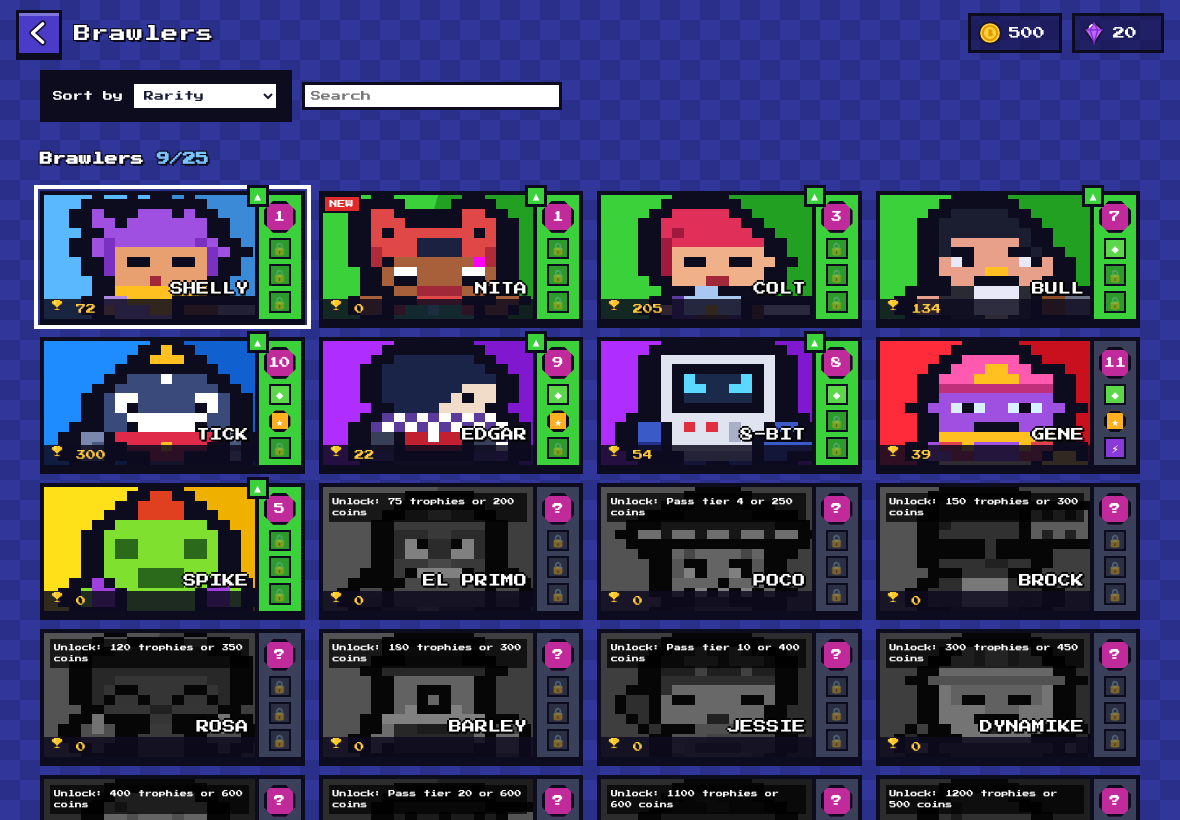
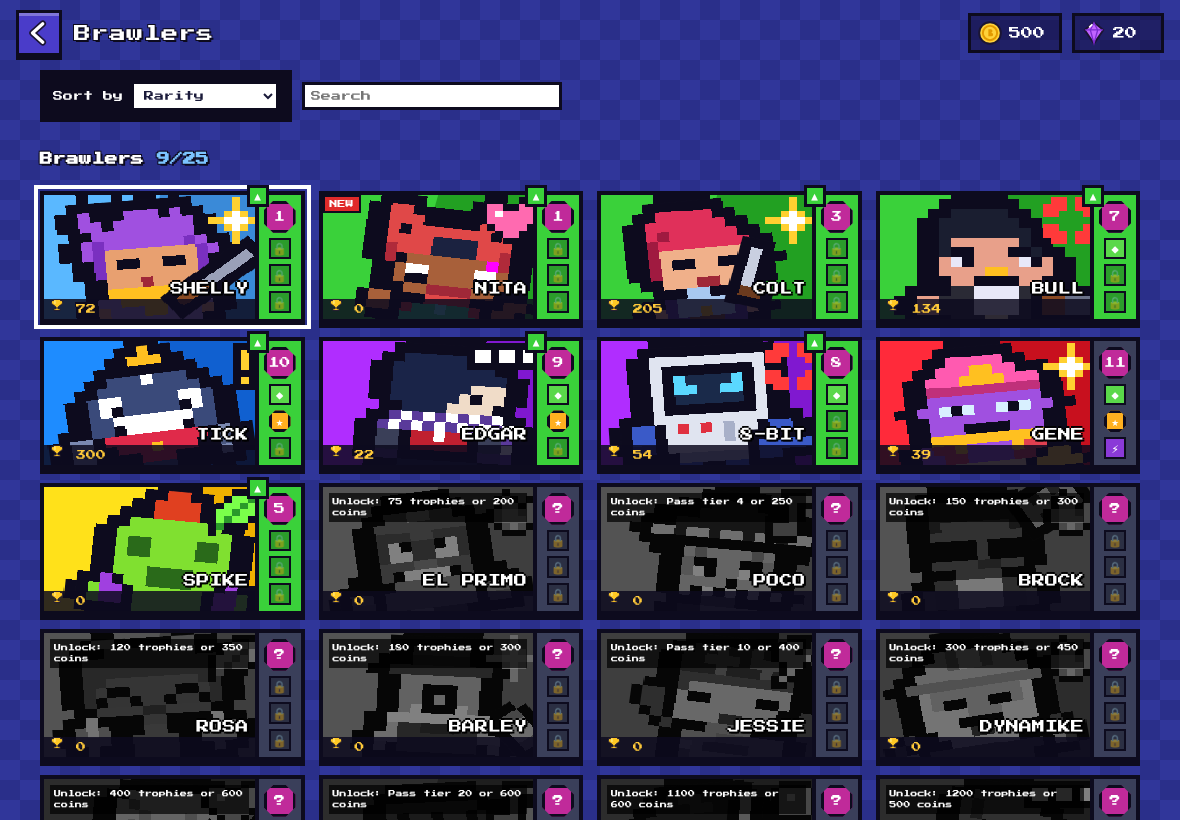
Personality poses on brawler profile pictures
Claude-Session: https://claude.ai/code/session_01FdRq2KxaynozDRfyymzMuF

diff --git a/Brawl8Bit.html b/Brawl8Bit.html
@@ -3767,6 +3767,45 @@ function drawDesktopHud(c) {
 }
 
 // ---------------- menu portraits ----------------
+// Personality poses for profile pictures: body lean, weapon angle and a little pixel emote.
+const EMOTES = {
+  heart: ['.kk..kk.', 'kppkkppk', 'kpwppppk', 'kppppppk', '.kppppk.', '..kppk..', '...kk...'],
+  anger: ['.rr.rr.', 'rrr.rrr', 'rr...rr', '.......', 'rr...rr', 'rrr.rrr', '.rr.rr.'],
+  note: ['..kkkk.', '..kbbbk', '..kbkkk', '..kbk..', 'kkkbk..', 'kbbbk..', 'kbbbk..', 'kkkk...'],
+  sparkle: ['...y...', '...y...', '..yWy..', 'yyWWWyy', '..yWy..', '...y...', '...y...'],
+  drop: ['..k...', '.kgk..', 'kgggk.', 'kgWgk.', 'kgggk.', '.kkk..'],
+  dots: ['kkkkkkkkkk', 'kWWkWWkWWk', 'kWWkWWkWWk', 'kkkkkkkkkk'],
+  bang: ['kkk', 'kyk', 'kyk', 'kyk', 'kkk', 'kyk', 'kkk'],
+  leaf: ['...kkk.', '..kggLk', '.kggLgk', 'kggLggk', 'kgLggk.', 'kLkkk..', 'k......'],
+  bolt: ['..kkkk', '.kyyk.', 'kyyk..', 'kyyyyk', '.kyyk.', '.kyk..', 'kyk...', 'kk....'],
+  bubble: ['.kkkk.', 'kppppk', 'kpWppk', 'kppppk', 'kppppk', '.kkkk.'],
+  bat: ['k.......k', 'kk.kkk.kk', 'kvkvvvkvk', 'kvvvrvvvk', '.kvkvkvk.', '..k.k.k..'],
+  fire: ['..k....', '.kok.k.', '.kookok', 'koyyook', 'koyyyok', '.koyok.', '..kkk..'],
+};
+const EMOTE_PAL = { k: '#0d0b1e', r: '#ff3a3a', p: '#ff6ab0', w: '#ffffff', W: '#ffffff', y: '#ffd030', b: '#3a8ad8', g: '#7aff4a', L: '#2a9a2a', o: '#ff7a1a', v: '#7a3ad8' };
+const POSES = {
+  shelly: { rot: -5, wrot: -35, em: 'sparkle' }, nita: { rot: 7, em: 'heart' }, colt: { rot: -6, wrot: -70, em: 'sparkle' }, bull: { rot: 0, em: 'anger' },
+  primo: { rot: -8, em: 'fire' }, poco: { rot: 6, em: 'note' }, brock: { rot: -4, wrot: -30, em: 'fire' }, jessie: { rot: 8, em: 'bolt' },
+  dynamike: { rot: -10, em: 'fire' }, spike: { rot: 6, em: 'leaf' }, rosa: { rot: -4, em: 'leaf' }, piper: { rot: 5, wrot: -60, em: 'heart' },
+  frank: { rot: -3, em: 'note' }, mortis: { rot: -10, wrot: 30, em: 'bat' }, leon: { rot: 6, flip: true, em: 'dots' }, crow: { rot: -6, em: 'drop' },
+  edgar: { rot: 4, em: 'dots' }, bibi: { rot: -6, wrot: -80, em: 'bubble' }, max: { rot: 12, em: 'bolt' }, tick: { rot: -8, em: 'bang' },
+  barley: { rot: 3, wrot: -40, em: 'sparkle' }, sprout: { rot: 6, em: 'leaf' }, eightbit: { rot: -4, em: 'anger' }, emz: { rot: 8, wrot: -45, em: 'dots' }, gene: { rot: -6, em: 'sparkle' },
+};
+const EMC = {};
+function emoteCanvas(n) { return EMC[n] || (EMC[n] = compileRows(EMOTES[n], EMOTE_PAL)); }
+function drawPosed(c, id, skin, px, py, sc, flip) {
+  const S_ = getSpr(id, skin), P = POSES[id] || {}, fl = !!(flip ^ !!P.flip), W_ = S_.w * sc, H_ = S_.h * sc;
+  c.save(); c.translate(px + W_ / 2, py + H_); c.rotate((P.rot || 0) * Math.PI / 180 * (fl ? -1 : 1)); c.translate(-W_ / 2, -H_);
+  const k = silhouette(id, INK)[fl ? 'f' : 'n']; for (const [dx, dy] of [[-1, 0], [1, 0], [0, -1], [0, 1]]) c.drawImage(k, dx * sc, dy * sc, W_, H_);
+  c.drawImage((fl ? S_.f : S_.n)[0], 0, 0, W_, H_);
+  if (S_.weapon) {
+    const W = S_.weapon, gx = fl ? (S_.w - W.ox) * sc : W.ox * sc, gy = (W.oy + 1) * sc;
+    c.save(); c.translate(gx, gy); c.rotate((P.wrot || 0) * Math.PI / 180 * (fl ? -1 : 1));
+    c.drawImage(fl ? W.f : W.n, fl ? -W.w * sc : 0, -sc, W.w * sc, W.n.height * sc); c.restore();
+  }
+  c.restore();
+  if (P.em) { const e = emoteCanvas(P.em), es = Math.max(1, Math.round(sc * 0.7)); c.drawImage(e, fl ? px - e.width * es * 0.2 : px + W_ - e.width * es * 0.8, Math.max(2, py - es * 2), e.width * es, e.height * es); }
+}
 function drawPortrait(cv, id, opts = {}) {
   const c = cv.getContext('2d'), w = cv.width, h = cv.height, d = BR[id];
   c.setTransform(1, 0, 0, 1, 0, 0); c.imageSmoothingEnabled = false;
@@ -3778,9 +3817,7 @@ function drawPortrait(cv, id, opts = {}) {
   const flip = opts.ang !== undefined && opts.ang > 1.5;
   const px = Math.round((w - S_.w * sc) / 2), py = Math.round(h - S_.h * sc - sc * 2);
   c.fillStyle = 'rgba(13,11,30,.4)'; c.fillRect(px + 2 * sc, h - 3 * sc, (S_.w - 4) * sc, 2 * sc);
-  const k = silhouette(id, INK)[flip ? 'f' : 'n']; for (const [dx, dy] of [[-1, 0], [1, 0], [0, -1], [0, 1]]) c.drawImage(k, px + dx * sc, py + dy * sc, S_.w * sc, S_.h * sc);
-  c.drawImage((flip ? S_.f : S_.n)[0], px, py, S_.w * sc, S_.h * sc);
-  if (S_.weapon) { const W = S_.weapon; c.drawImage(flip ? W.f : W.n, flip ? px + (S_.w - W.ox - W.w) * sc : px + W.ox * sc, py + W.oy * sc, W.w * sc, W.n.height * sc); }
+  drawPosed(c, id, opts.skin || '', px, py, sc, flip);
 }
 
 // ===================================================================
@@ -3880,9 +3917,7 @@ function drawCardFace(cv, id, skin) {
   c.imageSmoothingEnabled = false; c.fillStyle = c1; c.fillRect(0, 0, w, h);
   c.fillStyle = c2; c.beginPath(); c.moveTo(w * 0.55, 0); c.lineTo(w, 0); c.lineTo(w, h); c.lineTo(w * 0.35, h); c.fill();
   const S_ = getSpr(id, skin), sc = Math.floor(h / 12.8), px = Math.round(w * 0.12), py = 4;
-  const k = silhouette(id, INK).n; for (const [dx, dy] of [[-1, 0], [1, 0], [0, -1], [0, 1]]) c.drawImage(k, px + dx * sc, py + dy * sc, S_.w * sc, S_.h * sc);
-  c.drawImage(S_.n[0], px, py, S_.w * sc, S_.h * sc);
-  if (S_.weapon) { const W = S_.weapon; c.drawImage(W.n, px + W.ox * sc, py + W.oy * sc, W.w * sc, W.n.height * sc); }
+  drawPosed(c, id, skin, px, py, sc, false);
 }
 function renderBrawlers() {
   const g = $('#brGrid'); g.innerHTML = '';
